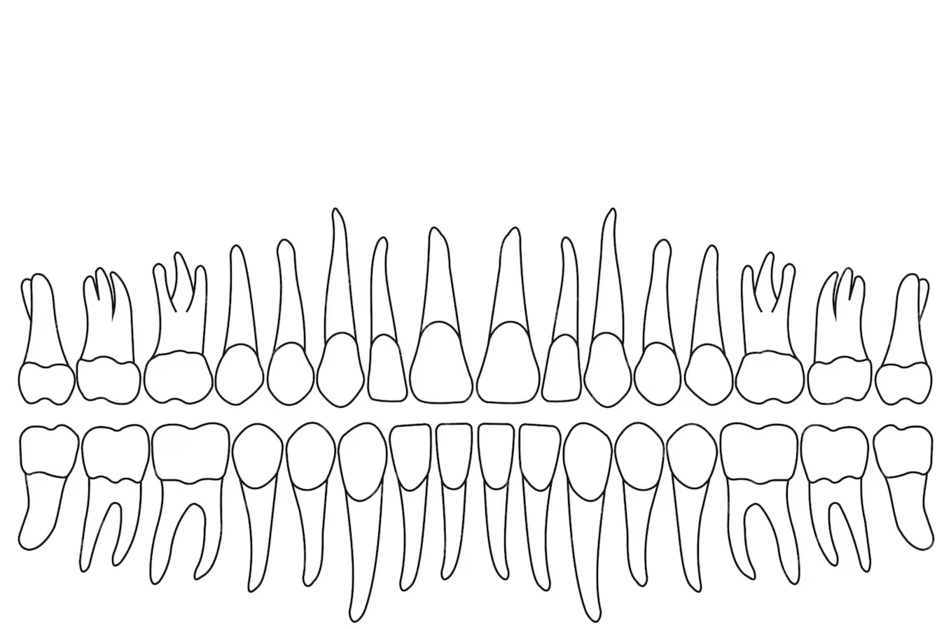
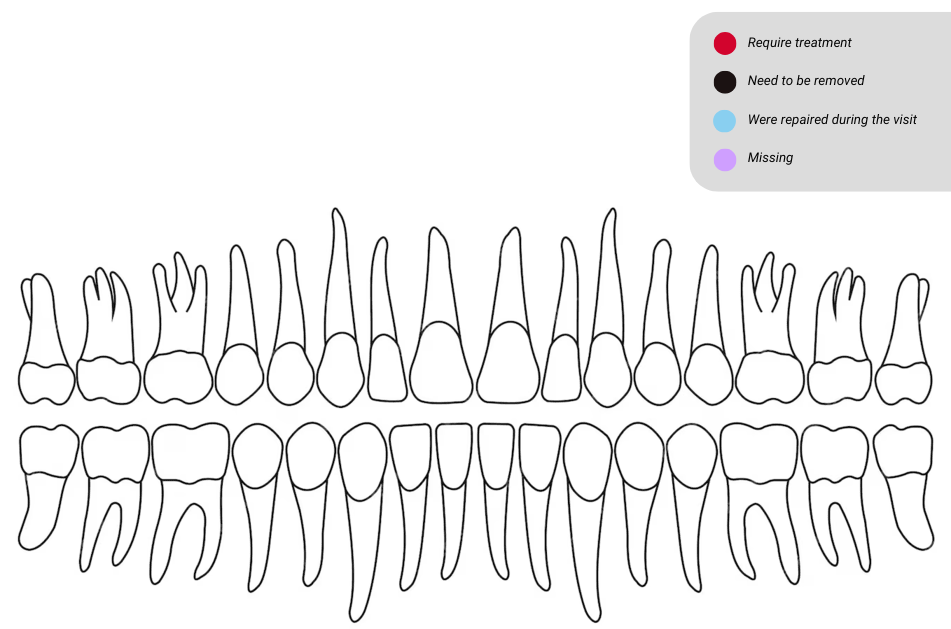
Add colors info

Changed region(s): [[0.7014, 0.0, 1.0, 0.3021]]

diff --git a/view/widget/layout_mouse_visualisation.py b/view/widget/layout_mouse_visualisation.py
@@ -62,7 +62,7 @@ class LayoutMouseVisualisation(QWidget):
         self.btn_layout.addWidget(self.purple_btn)
 
         self.eraser_btn = ButtonColor([255, 255, 255], self.controller.set_color, self.btn_layout)
-        self.eraser_btn.setIcon(QIcon('static/images/eraser.png'))
+        self.eraser_btn.setIcon(QIcon(Environment.resource_path('static/images/eraser.png')))
         self.eraser_btn.setIconSize(QSize(30, 30))
         self.btn_layout.addWidget(self.eraser_btn)
 
@@ -77,7 +77,6 @@ class LayoutMouseVisualisation(QWidget):
     def get_mouse_position(self, event):
         x = int(event.position().x())
         y = int(event.position().y())
-        print(f"x: {x}, y: {y}")
         self.update_img(self.controller.color_teeth(x, y, self.controller.current_color))
 
     def set_previous_image(self):
@@ -161,7 +160,7 @@ class ButtonColor(QPushButton):
         self.selected_style = f"""
             QPushButton {{
                 background-color: {color_css};
-                border: 3px solid #000000;  
+                border: 3px solid #EFEFEF;  
                 padding: 6px;  
                 border-radius: 5px;
                 font-weight: bold;
@@ -210,7 +209,7 @@ class ButtonUndo(QPushButton):
         super().__init__()
         self.clicked.connect(foo)
         self.setFixedSize(50, 50)
-        self.setIcon(QIcon('static/images/undo.png'))
+        self.setIcon(QIcon(Environment.resource_path('static/images/undo.png')))
         self.setIconSize(QSize(30, 30))
         self.setStyleSheet("""
             QPushButton {
@@ -233,7 +232,7 @@ class ButtonSave(QPushButton):
         super().__init__()
         self.clicked.connect(foo)
         self.setFixedSize(50, 50)
-        self.setIcon(QIcon('static/images/save.png'))
+        self.setIcon(QIcon(Environment.resource_path('static/images/save.png')))
         self.setIconSize(QSize(30, 30))
         self.setStyleSheet("""
             QPushButton {
